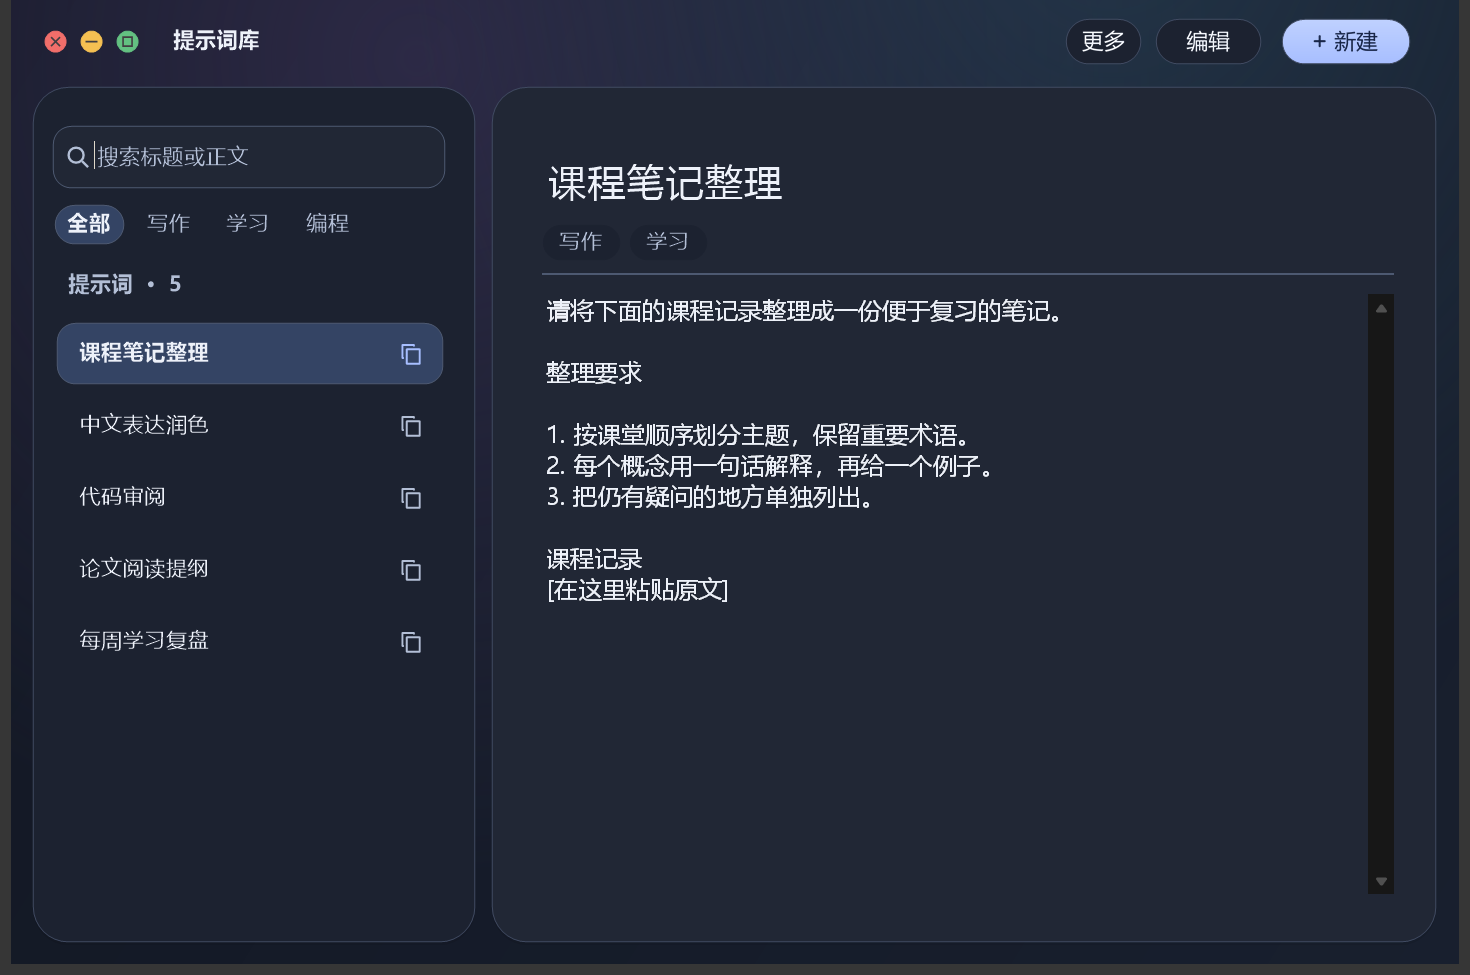
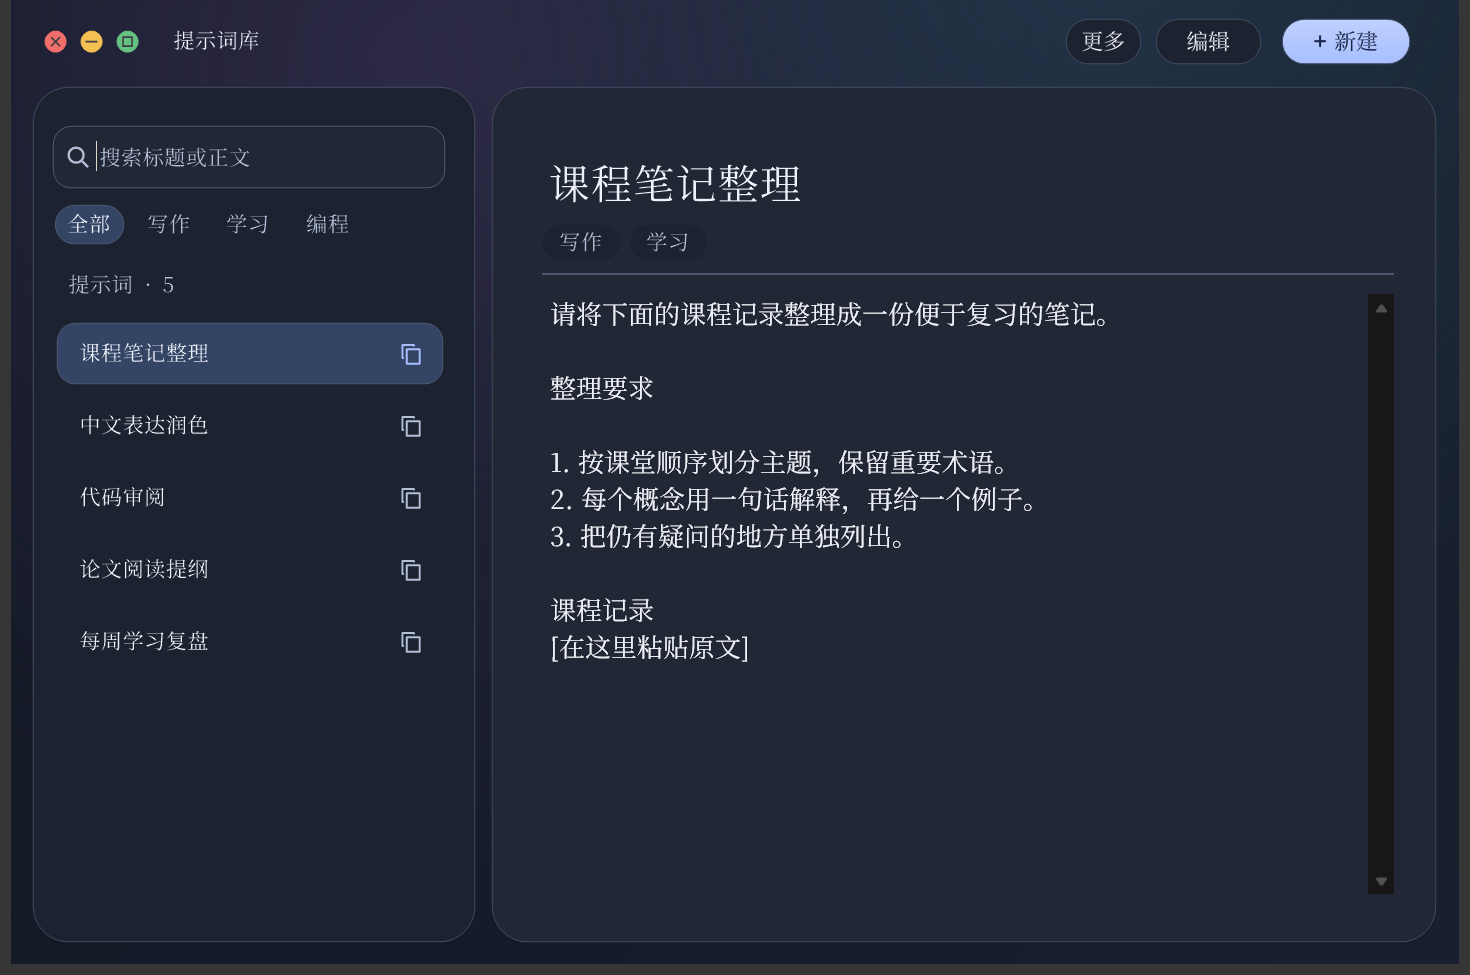
Use serif typography for prompt titles, reading, and editing

diff --git a/src/ui/LibraryWindow.cpp b/src/ui/LibraryWindow.cpp
@@ -268,9 +268,19 @@ void LibraryWindow::style() {
     paperBrush = CreateSolidBrush(colors.paper);
     railBrush = CreateSolidBrush(colors.rail);
     auto old = fonts;
-    fonts = {fontAt(14, FW_NORMAL, dpi), fontAt(14, FW_SEMIBOLD, dpi), fontAt(25, FW_NORMAL, dpi),
-             fontAt(16, FW_NORMAL, dpi)};
     HDC dc = GetDC(h);
+    hanFace = installedFace(dc, L"Noto Serif SC")         ? L"Noto Serif SC"
+              : installedFace(dc, L"Source Han Serif SC") ? L"Source Han Serif SC"
+              : installedFace(dc, L"STSong")              ? L"STSong"
+                                                          : L"SimSun";
+    const wchar_t *latinFace = installedFace(dc, L"Anthropic Serif") ? L"Anthropic Serif" : L"Georgia";
+    size_t slot = 0;
+    for (auto face : {hanFace, latinFace}) {
+        fonts[slot++] = fontAt(face, 14, FW_NORMAL, dpi);
+        fonts[slot++] = fontAt(face, 14, FW_MEDIUM, dpi);
+        fonts[slot++] = fontAt(face, 27, face == hanFace ? FW_MEDIUM : FW_NORMAL, dpi);
+        fonts[slot++] = fontAt(face, 17, face == hanFace ? FW_MEDIUM : FW_NORMAL, dpi);
+    }
     for (size_t i = 0; i < fonts.size(); ++i) {
         labelFonts[i] = std::make_unique<Gdiplus::Font>(dc, fonts[i]);
         if (labelFonts[i]->GetLastStatus() != Gdiplus::Ok)
@@ -281,7 +291,10 @@ void LibraryWindow::style() {
         auto id = GetDlgCtrlID(c);
         if (id == List || id == Body || id == BodyInput || id == Search || id == TagInput)
             SetWindowTheme(c, colors.dark ? L"DarkMode_Explorer" : nullptr, nullptr);
-        SendMessageW(c, WM_SETFONT, (WPARAM)fonts[(id == Body || id == BodyInput) ? 3 : 0], FALSE);
+        size_t role = id == Body || id == BodyInput ? 3 : 0;
+        if (id == Body && current)
+            role = serifIndex(role, current->body);
+        SendMessageW(c, WM_SETFONT, (WPARAM)fonts[role], FALSE);
     }
     for (auto f : old)
         DeleteObject(f);
@@ -326,6 +339,7 @@ void LibraryWindow::layout() {
     for (int i = 0; i < 4; i++) {
         if (i < (int)tags.size()) {
             SIZE size;
+            SelectObject(dc, fonts[serifIndex(0, tags[i].name)]);
             GetTextExtentPoint32W(dc, tags[i].name.c_str(), tags[i].name.size(), &size);
             int cw = std::clamp(MulDiv(size.cx, 96, dpi) + 20, 42, 104);
             bool more = i + 1 < (int)tags.size();

diff --git a/src/ui/Style.h b/src/ui/Style.h
@@ -69,10 +69,30 @@ inline void surface(HDC dc, RECT r, float radius, Gdiplus::Color top, Gdiplus::C
 inline void rounded(HDC dc, RECT r, int radius, COLORREF bg, COLORREF line) {
     surface(dc, r, float(radius), tone(bg), tone(bg), tone(line));
 }
-inline HFONT fontAt(int px, int weight, UINT dpi) {
+inline bool installedFace(HDC dc, const wchar_t *name) {
+    LOGFONTW query{};
+    query.lfCharSet = DEFAULT_CHARSET;
+    lstrcpynW(query.lfFaceName, name, LF_FACESIZE);
+    bool found = false;
+    EnumFontFamiliesExW(
+        dc, &query,
+        [](const LOGFONTW *, const TEXTMETRICW *, DWORD, LPARAM data) -> int {
+            *reinterpret_cast<bool *>(data) = true;
+            return 0;
+        },
+        reinterpret_cast<LPARAM>(&found), 0);
+    return found;
+}
+inline size_t serifIndex(size_t role, std::wstring_view text) {
+    // Keep mixed-language passages in a single family with Han glyphs and matching Latin metrics.
+    const bool latin = !text.empty() && std::all_of(text.begin(), text.end(), [](wchar_t c) {
+        return c <= 0x024f || (c >= 0x2000 && c <= 0x206f);
+    });
+    return role + (latin ? 4 : 0);
+}
+inline HFONT fontAt(const wchar_t *face, int px, int weight, UINT dpi) {
     return CreateFontW(-MulDiv(px, dpi, 96), 0, 0, 0, weight, FALSE, FALSE, FALSE, DEFAULT_CHARSET,
-                       OUT_TT_PRECIS, CLIP_DEFAULT_PRECIS, ANTIALIASED_QUALITY, DEFAULT_PITCH,
-                       L"Microsoft YaHei UI");
+                       OUT_TT_PRECIS, CLIP_DEFAULT_PRECIS, ANTIALIASED_QUALITY, DEFAULT_PITCH, face);
 }
 inline std::wstring valueOf(HWND h) {
     int n = GetWindowTextLengthW(h);

diff --git a/src/ui/LibraryPaint.cpp b/src/ui/LibraryPaint.cpp
@@ -57,6 +57,7 @@ void LibraryWindow::label(HDC dc, std::wstring_view text, RECT r, size_t index, 
                           UINT flags) const {
     if (text.empty() || r.right <= r.left || r.bottom <= r.top)
         return;
+    index = serifIndex(index, text);
     using namespace Gdiplus;
     if (labelFonts[index]) {
         Graphics canvas(dc);
@@ -140,6 +141,7 @@ void LibraryWindow::paint() {
         auto prev = SelectObject(dc, fonts[0]);
         for (auto &name : names) {
             SIZE sz{};
+            SelectObject(dc, fonts[serifIndex(0, name)]);
             GetTextExtentPoint32W(dc, name.data(), int(name.size()), &sz);
             int available = x + rw - left;
             if (available < 35)
@@ -285,7 +287,7 @@ bool LibraryWindow::draw(const DRAWITEMSTRUCT &d) {
     const COLORREF ink = primary || (colors.contrast && (selected || pressed)) ? colors.reverse
                          : tag && !selected                                    ? colors.muted
                                                                                : colors.ink;
-    if (tag || !drawButtonCaption(dc, r, dpi, ink, caption))
+    if (tag || !drawButtonCaption(dc, r, dpi, ink, caption, hanFace))
         label(dc, caption, r, primary || selected ? 1 : 0, ink,
               DT_CENTER | DT_VCENTER | DT_SINGLELINE | DT_END_ELLIPSIS);
     if (d.itemState & ODS_FOCUS) {

diff --git a/src/ui/ButtonCaption.h b/src/ui/ButtonCaption.h
@@ -2,14 +2,15 @@
 #include "ui/Style.h"
 #include <string_view>
 
-inline bool drawButtonCaption(HDC dc, RECT button, UINT dpi, COLORREF color, std::wstring_view caption) {
+inline bool drawButtonCaption(HDC dc, RECT button, UINT dpi, COLORREF color, std::wstring_view caption,
+                              const wchar_t *face) {
     using namespace Gdiplus;
     constexpr std::wstring_view prefix = L"＋ ";
     const bool hasPlus = caption.starts_with(prefix);
     if (hasPlus)
         caption.remove_prefix(prefix.size());
     const float scale = dpi / 96.f;
-    FontFamily family(L"Microsoft YaHei UI");
+    FontFamily family(face);
     GraphicsPath text;
     if (family.GetLastStatus() != Ok ||
         text.AddString(caption.data(), int(caption.size()), &family, FontStyleRegular, 14.5f * scale,

diff --git a/src/ui/LibraryWindow.h b/src/ui/LibraryWindow.h
@@ -36,8 +36,9 @@ struct LibraryWindow {
     PromptStore store;
     Palette colors;
     UINT dpi = 96;
-    std::array<HFONT, 4> fonts{};
-    std::array<std::unique_ptr<Gdiplus::Font>, 4> labelFonts;
+    const wchar_t *hanFace = L"SimSun";
+    std::array<HFONT, 8> fonts{};
+    std::array<std::unique_ptr<Gdiplus::Font>, 8> labelFonts;
     void label(HDC dc, std::wstring_view text, RECT bounds, size_t fontIndex, COLORREF color,
                UINT flags = DT_LEFT | DT_VCENTER | DT_SINGLELINE | DT_END_ELLIPSIS) const;
     HBITMAP backdropBitmap{};

diff --git a/src/ui/LibraryActions.cpp b/src/ui/LibraryActions.cpp
@@ -28,6 +28,8 @@ void LibraryWindow::reloadTags() {
 }
 void LibraryWindow::showDetail() {
     layout();
+    if (current)
+        SendMessageW(item(Body), WM_SETFONT, (WPARAM)fonts[serifIndex(3, current->body)], FALSE);
     SetWindowTextW(item(Body), current ? windowsLines(current->body).c_str() : L"");
     SetWindowTextW(item(EmptyAction),
                    category || !valueOf(item(Search)).empty() ? L"清除筛选" : L"新建第一条提示词");
